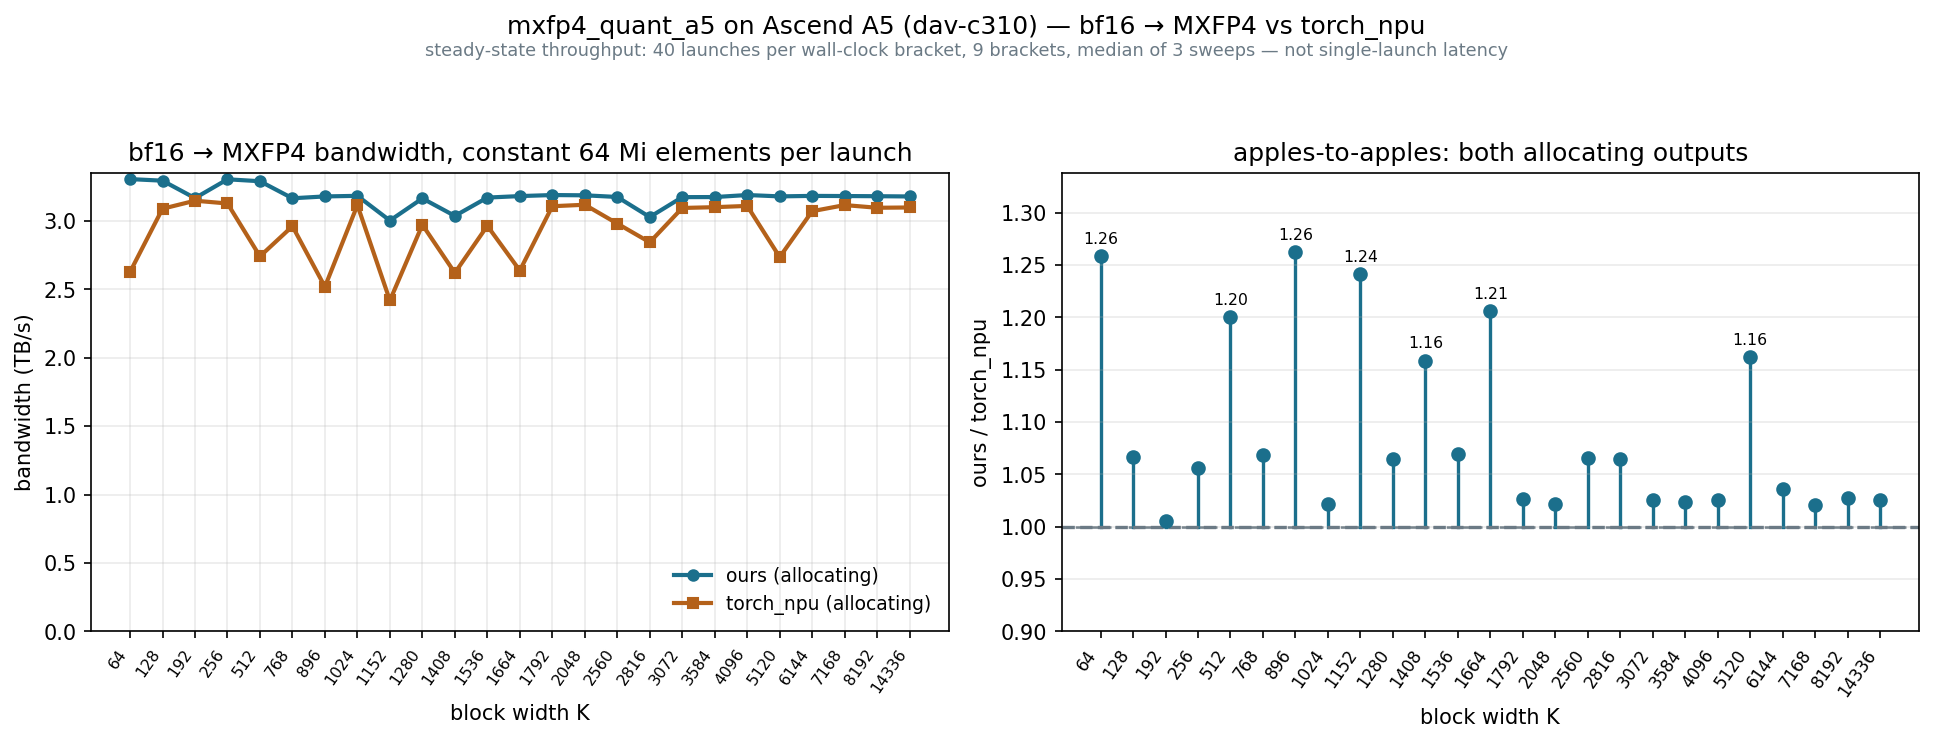
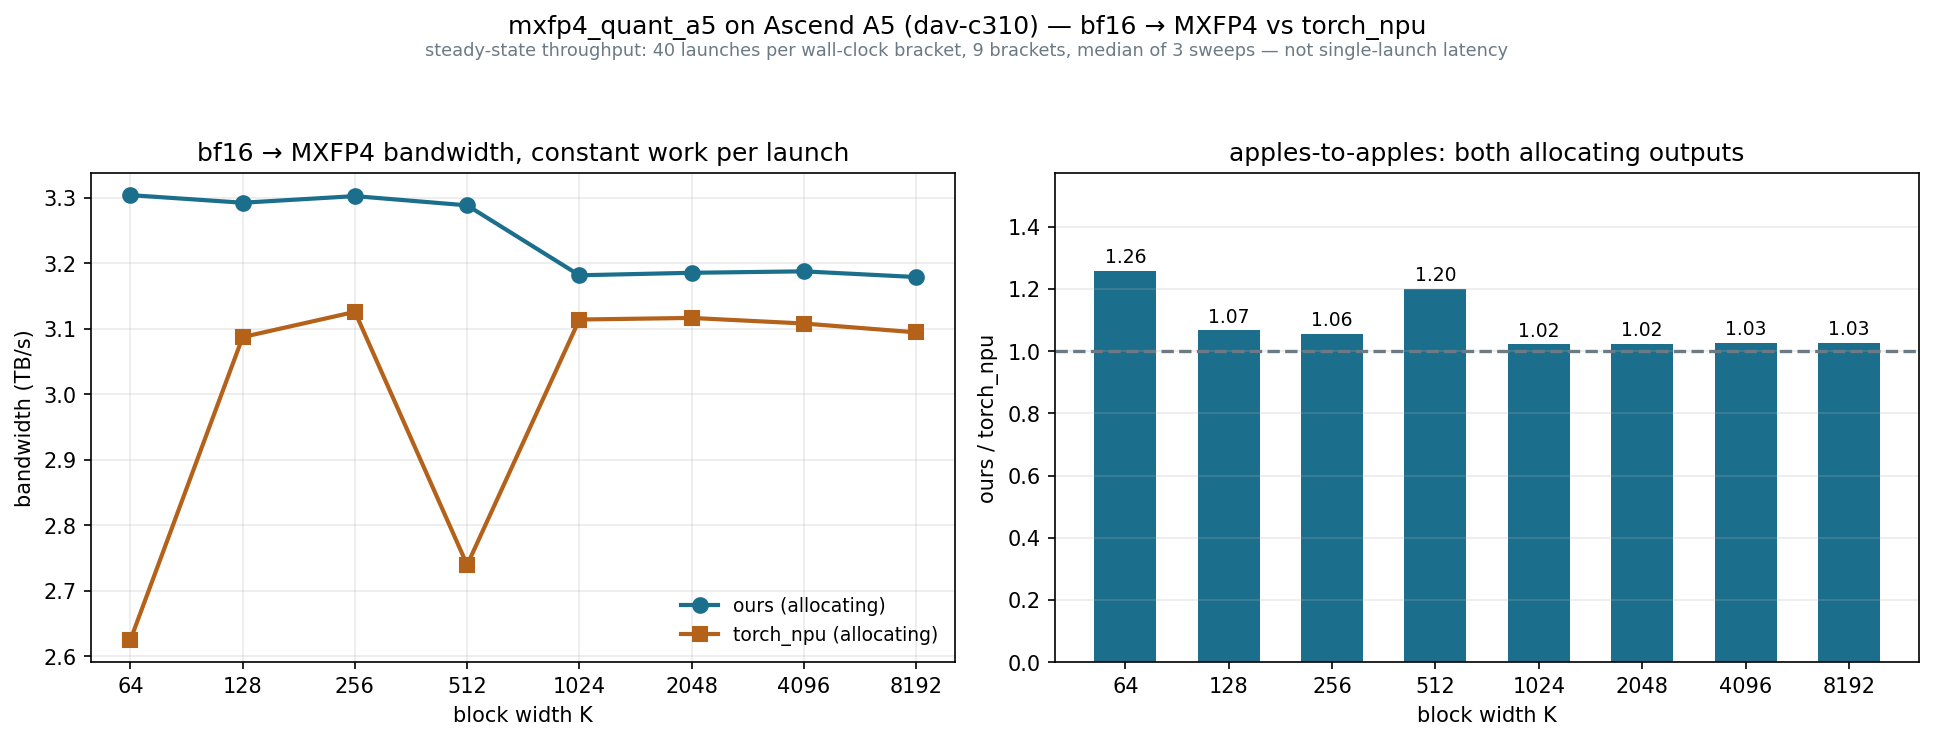
mxfp4_quant_a5: plot powers of two again, original two panels
Reverts the figure to the layout it had before the width sweep grew: log2 x axis
with plain labels on the left, zero-based bars with value labels on the right.
The panel functions are restored verbatim from 2890118.

The sweep still measures every supported width and the CSV still records all 25 --
that data is confirmation the kernel handles non-powers of two, which is what the
88 tests are for, not the headline. The figure is about the shapes people reach
for. Non-powers of two are also exactly the widths whose tile cannot be filled
completely, so plotting them adds a sawtooth that is about tiling rather than
about the comparison.

Claude-Session: https://claude.ai/code/session_016qbbp2Kjzv1AhUkU6w1mi4

diff --git a/mxfp4_quant_a5/plot_mxfp4_bench_a5.py b/mxfp4_quant_a5/plot_mxfp4_bench_a5.py
@@ -23,9 +23,6 @@ shared axis each one misleads rather than informs:
 Both stay in the CSV, and benchmark.py uses the copy as the sanity bound that
 catches an impossible rate.
 
-Widths whose block count is ODD are absent by design, not by accident: torch_npu
-pads its scale array there and drops onto a slow path, so comparing on them would
-measure a shape it does not properly support. See benchmark.py.
 
 Timing is a saturated queue (N launches between two synchronizes, wall clock / N),
 not per-launch events: per-launch torch.npu.Event pairs on this box returned
@@ -72,11 +69,25 @@ def load(path):
     return rows
 
 
+def is_power_of_two(k):
+    return k & (k - 1) == 0
+
+
 def series(rows, contender, allocates):
+    """Only the powers of two get plotted.
+
+    The sweep measures every supported width, but the figure is about the shapes
+    people actually reach for; the rest stay in the CSV as confirmation that the
+    kernel handles them. Non-powers of two are also the widths whose tile cannot
+    be filled completely, so mixing them in adds a sawtooth that is about tiling,
+    not about the comparison.
+    """
     got = {
         r["k"]: r["gbs"]
         for r in rows
-        if r["contender"] == contender and r["allocates"] == allocates
+        if r["contender"] == contender
+        and r["allocates"] == allocates
+        and is_power_of_two(r["k"])
     }
     ks = sorted(got)
     return ks, [got[k] for k in ks]
@@ -85,45 +96,31 @@ def series(rows, contender, allocates):
 def draw_bandwidth(axis, rows):
     ks, ours = series(rows, "ours", 1)
     kv, vendor = series(rows, "torch_npu", 1)
-    # categorical x, not log2: 26 widths include many non-powers of two and a
-    # log axis crams 768..1792 into an unreadable clump
-    xs = range(len(ks))
     axis.plot(
-        xs,
+        ks,
         [v / 1000 for v in ours],
         "-o",
         color=OURS,
         lw=2,
-        ms=5,
+        ms=7,
         label="ours (allocating)",
     )
     if vendor:
-        shared = {k: v for k, v in zip(kv, vendor)}
         axis.plot(
-            xs,
-            [shared[k] / 1000 for k in ks],
+            kv,
+            [v / 1000 for v in vendor],
             "-s",
             color=VENDOR,
             lw=2,
-            ms=5,
+            ms=7,
             label="torch_npu (allocating)",
         )
-        worst_k = min(shared, key=shared.get)
-        if shared[worst_k] < 1000:
-            axis.annotate(
-                f"vendor collapses at K={worst_k}\n({shared[worst_k]:.0f} GB/s)",
-                (ks.index(worst_k), shared[worst_k] / 1000),
-                textcoords="offset points",
-                xytext=(12, 4),
-                fontsize=8,
-                color=VENDOR,
-            )
-    axis.set_xticks(list(xs))
-    axis.set_xticklabels([str(k) for k in ks], rotation=55, ha="right", fontsize=7.5)
+    axis.set_xscale("log", base=2)
+    axis.set_xticks(ks)
+    axis.set_xticklabels([str(k) for k in ks])
     axis.set_xlabel("block width K")
     axis.set_ylabel("bandwidth (TB/s)")
-    axis.set_ylim(0, None)
-    axis.set_title("bf16 → MXFP4 bandwidth, constant 64 Mi elements per launch")
+    axis.set_title("bf16 → MXFP4 bandwidth, constant work per launch")
     axis.grid(alpha=0.25)
     axis.legend(loc="lower right", frameon=False, fontsize=9)
 
@@ -147,28 +144,21 @@ def draw_ratio(axis, rows):
         fontsize=9,
         color=NEUTRAL,
     )
-    # dots on a deviation axis, not bars: a truncated bar axis misleads
+    colors = [OURS if r >= 1.0 else VENDOR for r in ratio]
+    axis.bar([str(k) for k in shared], ratio, color=colors, width=0.6)
     for x, r in enumerate(ratio):
-        axis.plot([x, x], [1.0, min(r, 1.35)], color=OURS, lw=1.6, zorder=1)
-        axis.plot([x], [min(r, 1.35)], "o", color=OURS, ms=6, zorder=2)
-        if r > 1.15:
-            axis.annotate(
-                f"{r:.2f}" + ("" if r < 2 else " ↑"),
-                (x, min(r, 1.35)),
-                textcoords="offset points",
-                xytext=(0, 6),
-                ha="center",
-                fontsize=7.5,
-            )
-    axis.set_xticks(range(len(shared)))
-    axis.set_xticklabels([str(k) for k in shared], rotation=55, ha="right", fontsize=8)
-    # K=96 is ~7x and would flatten the rest; clip and say so
-    shown = [r for r in ratio if r < 2.0]
-    axis.set_ylim(0.9, max(shown) * 1.06 if shown else 1.3)
+        axis.annotate(
+            f"{r:.2f}",
+            (x, r),
+            textcoords="offset points",
+            xytext=(0, 4 if r >= 1 else -12),
+            ha="center",
+            fontsize=9,
+        )
+    axis.set_ylim(0, max(ratio) * 1.25)
     axis.set_xlabel("block width K")
     axis.set_ylabel("ours / torch_npu")
     axis.set_title("apples-to-apples: both allocating outputs")
-    axis.axhline(1.0, ls="--", color=NEUTRAL, lw=1.2, zorder=0)
     axis.grid(axis="y", alpha=0.25)
 
 
